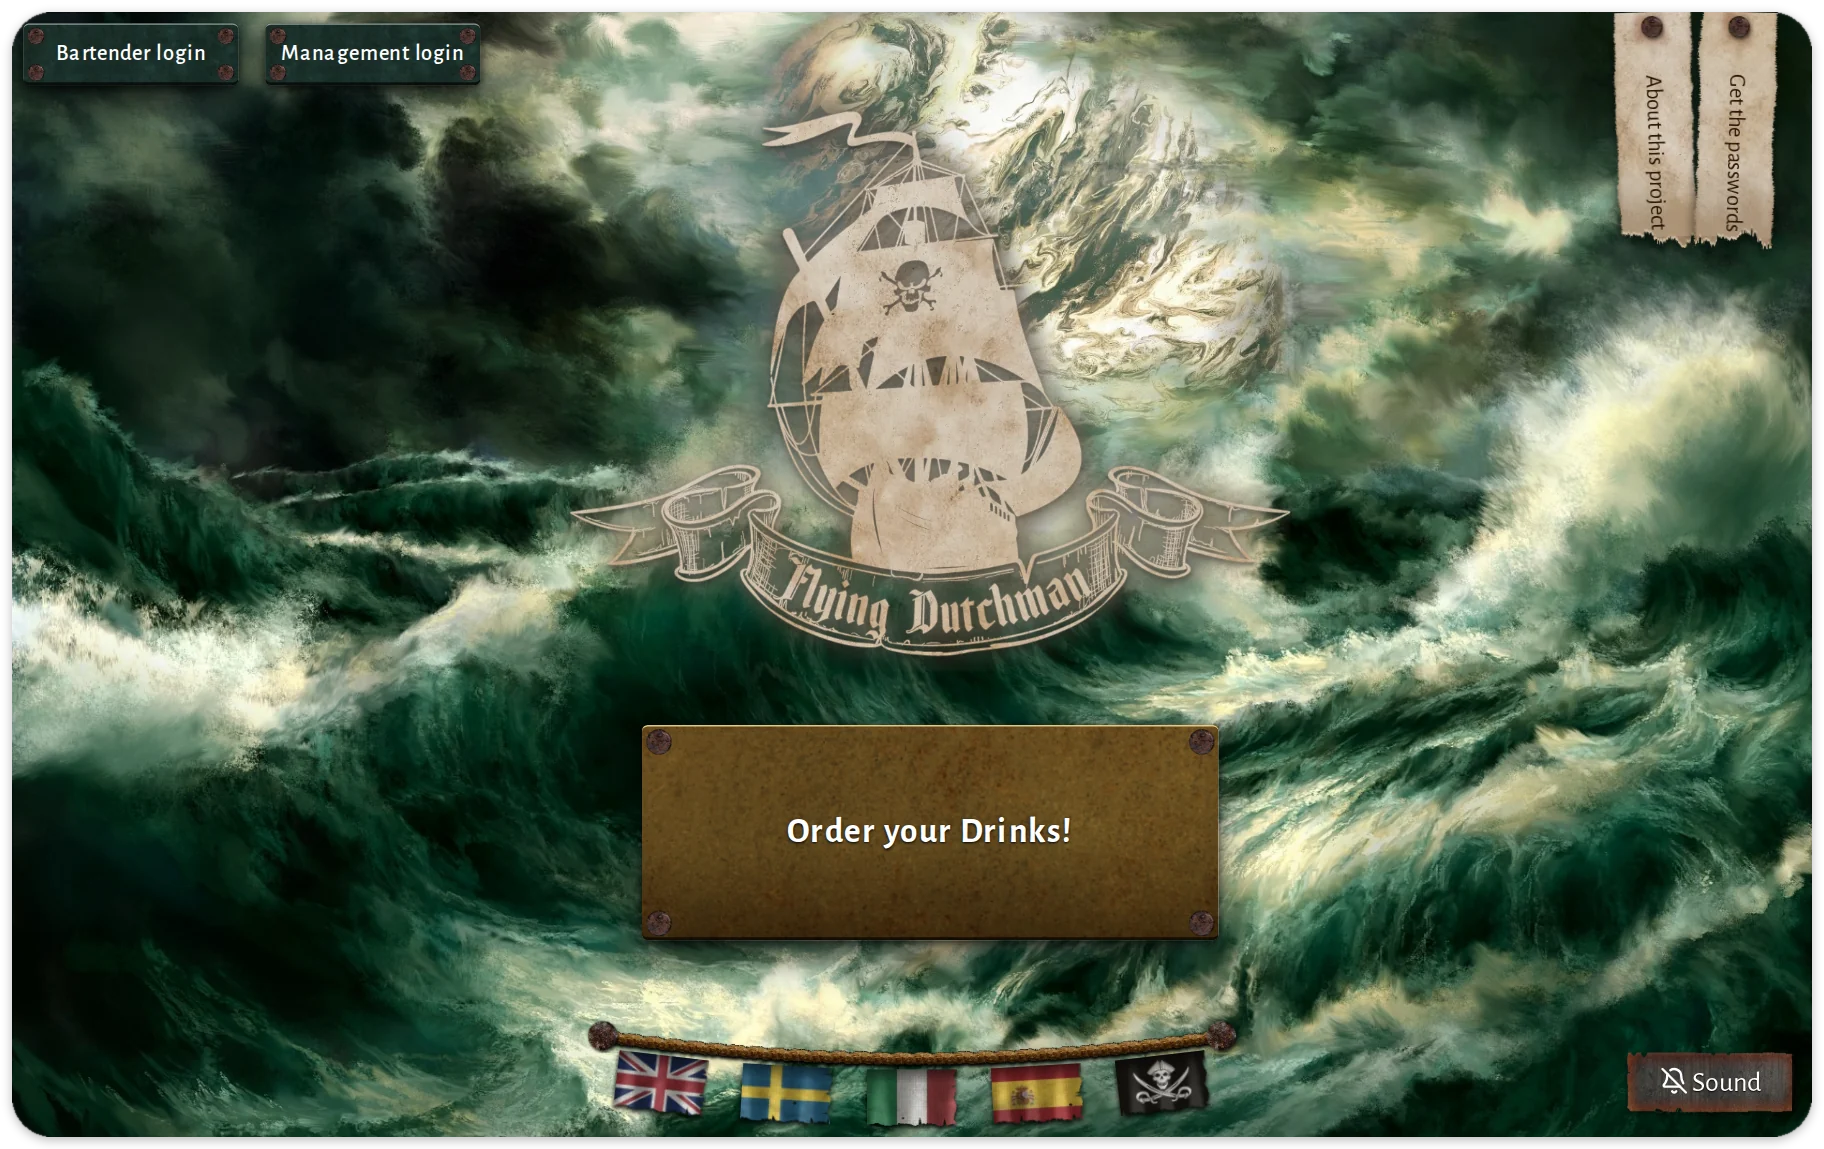
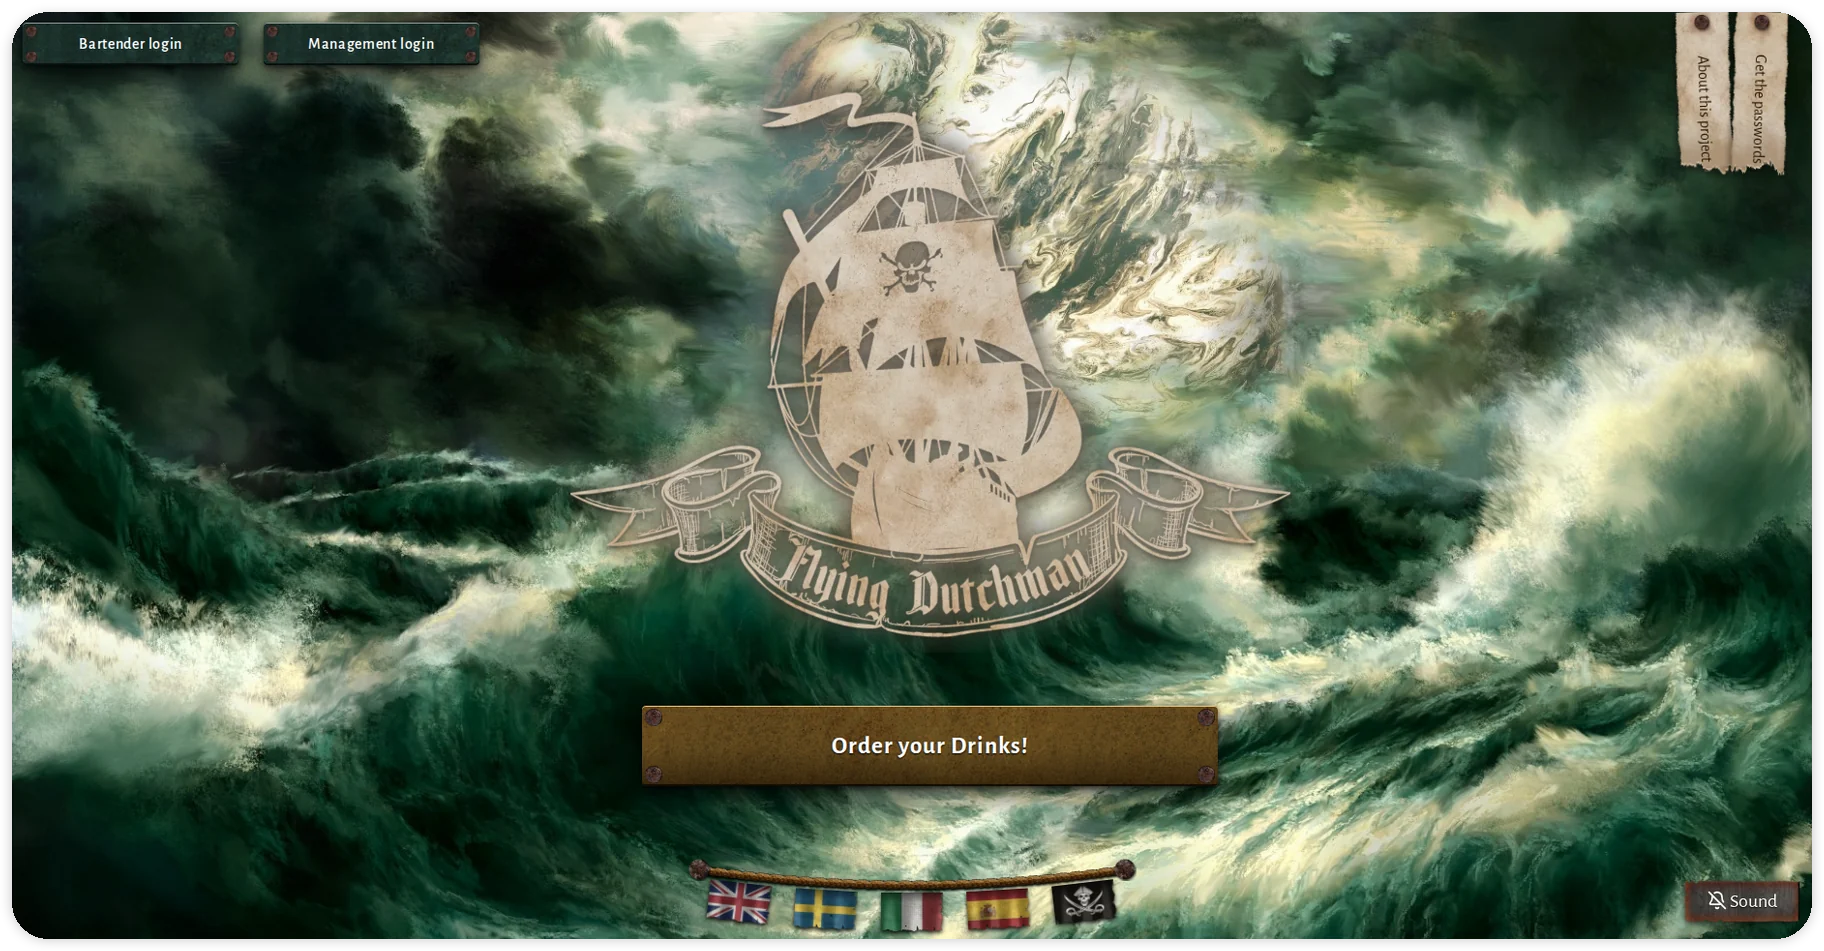
docs: wider README hero, portfolio link in the byline
- Retake the hero at a 1860x958 window, so the Order your Drinks
  plate has room and the flag line sits clear of it
- Link the byline to hassan-odimi.se, set to open in a new tab

diff --git a/README.md b/README.md
@@ -4,7 +4,7 @@
 
 **A pirate-bar ordering system, rebuilt for keyboards, screen readers and phones.**
 
-**Version 2 · designed, directed and tested by [Hassan Odimi](https://TODO-hassan-odimi.se)**
+**Version 2 · designed, directed and tested by <a href="https://hassan-odimi.se" target="_blank" rel="noopener">Hassan Odimi</a>**
 
 ![WCAG 2.2 AA](https://img.shields.io/badge/WCAG-2.2%20AA-1f6f5c)
 ![Stack: HTML, CSS and jQuery, no framework](https://img.shields.io/badge/HTML%20%C2%B7%20CSS%20%C2%B7%20jQuery-no%20framework-555)
